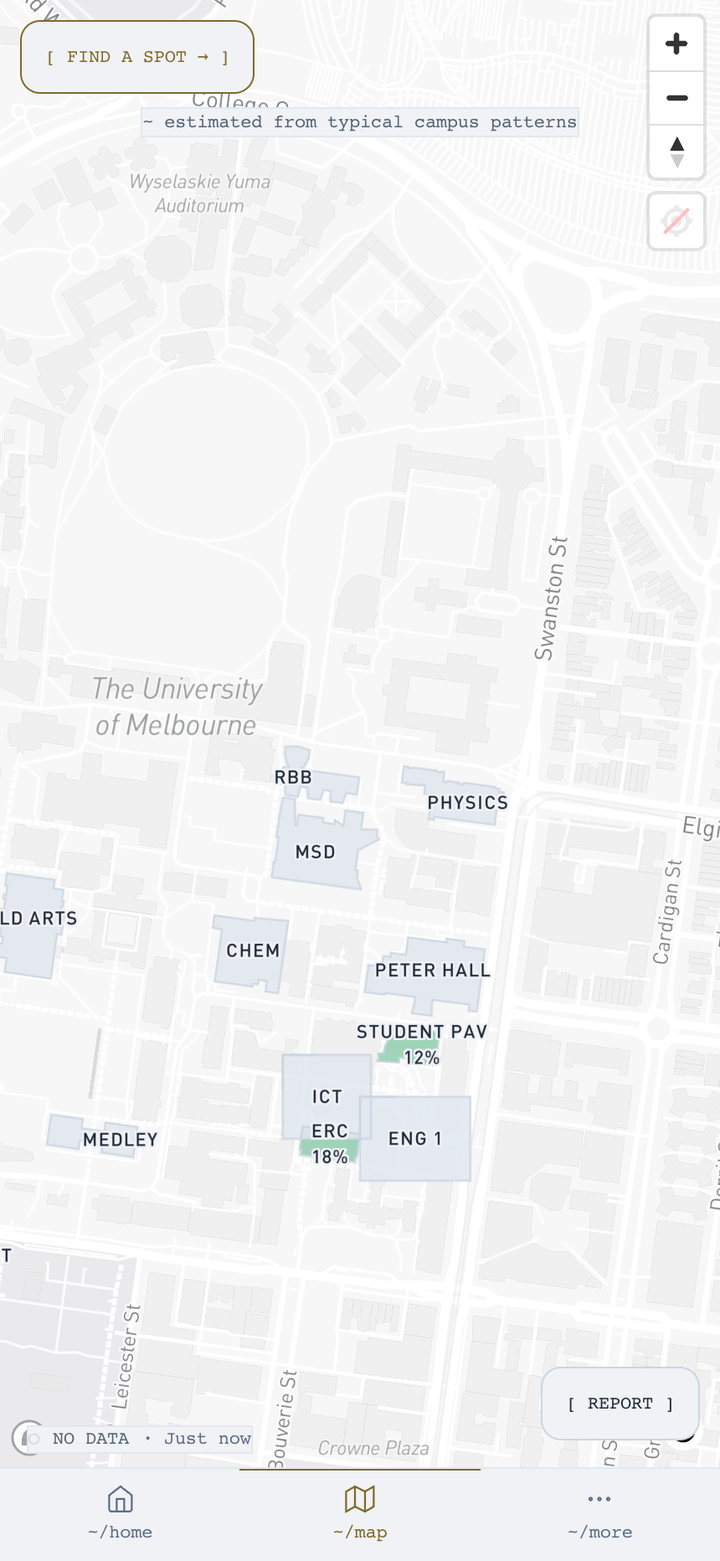
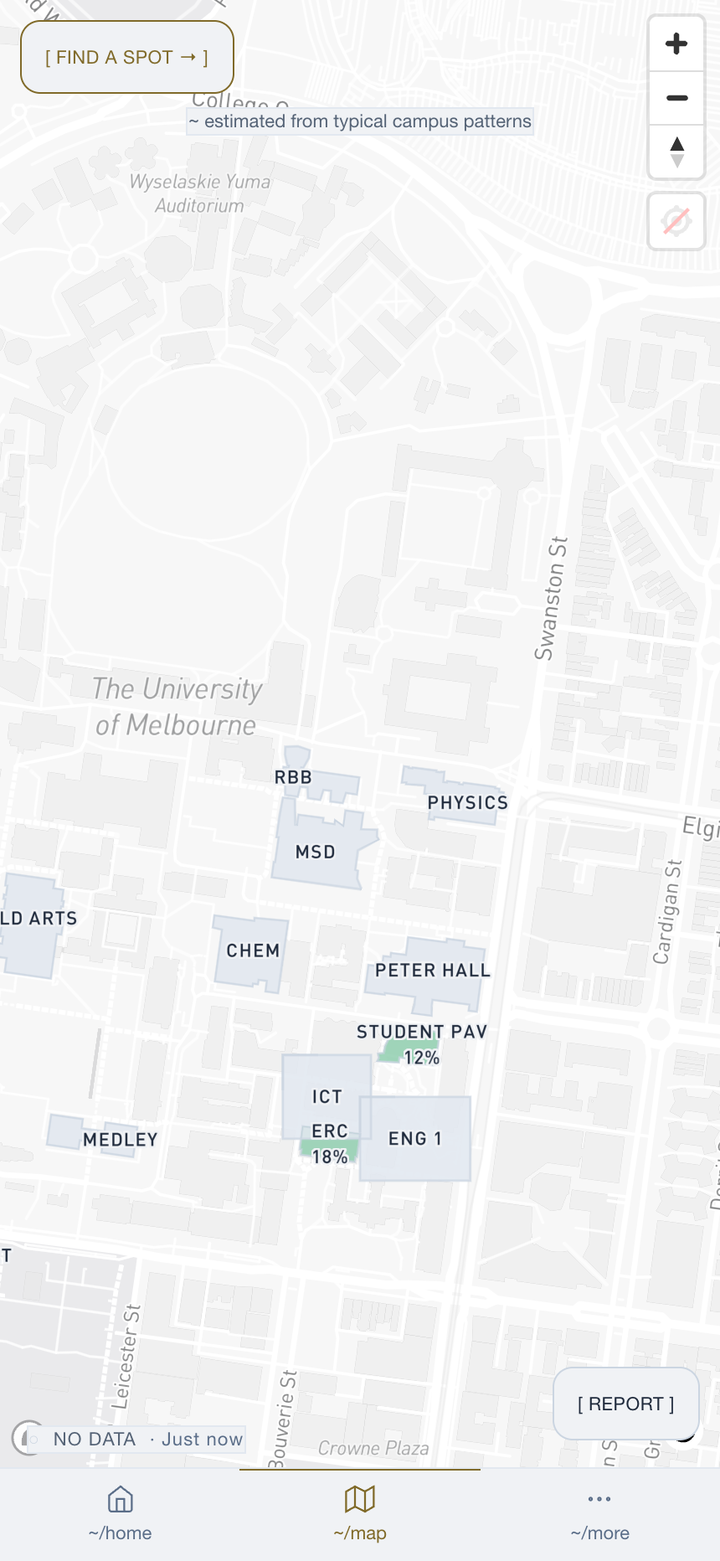
docs(D): re-capture the media at the settled design, correct the moved figures
The SIGNAL revert completed in 2f80bb7 — UoM palette, monospace dropped
across 113 elements, home-page rhythm reworked. All five images retaken
against that build; the previous set showed a design that no longer ships.

Currency proved by matching the built stylesheet hash (index-AJq4aJ5Q.css)
against the one the deployed site serves, rather than by eye.

Re-measured rather than carried forward:
- landing route 171.5 -> 172.8 KB gzip as index.css grew and five home
  components landed; README and PROJECT.json now say 173
- tests 380/32 and migrations 22 unmoved, verified not assumed

Also documents why the revert did not restore the coloured occupancy
percentage on the home tiles: it measures ~2.2:1 on the card, under the
3:1 floor for large text, so the colour stays on the stripe and the bar.

diff --git a/README.md b/README.md
@@ -12,7 +12,7 @@ UniSpace shows how full every building on a university campus is, so students st
 
 | | |
 |---|---|
-| **Landing route** | **171 KB gzip**, down from 637 KB — Mapbox's 439 KB stays off it entirely |
+| **Landing route** | **173 KB gzip**, down from 637 KB — Mapbox's 439 KB stays off it entirely |
 | **Tests** | **380** across 32 files, including four that assert properties most projects only write down |
 | **Campus data** | **18** buildings · **47** zones · **890** rooms · **1,156** modelled occupancy rows |
 | **Coordinates sent to a server** | **None.** Zone matching runs on the device; a test fails the build if that changes |
@@ -193,14 +193,18 @@ could not be identified with confidence are still quadrilaterals and are named a
 matched to a guess.
 
 Measurement changed decisions repeatedly, and not always in the expected direction. Splitting
-Mapbox out took the landing route from 637 KB to 171 KB gzip; the next optimisation, naming a
+Mapbox out took the landing route from 637 KB to 173 KB gzip; the next optimisation, naming a
 `charts` chunk for Recharts, made things **worse** — it was already correctly split behind the
 lazy building card, and naming it caused the bundler to hoist it into a static import, adding
 108 KB to the route in the name of shrinking it. Computing contrast ratios rather than eyeballing
 them caught a regression introduced two sprints earlier: a text token measuring 2.56:1 was
 carrying 49 pieces of real content. The same test later blocked a design revert — restoring the
 university palette's literal gold (2.02:1) and green (2.42:1) failed 13 contrast assertions, so
-the shipped values are hue- and saturation-preserved and darkened until they pass.
+the shipped values are hue- and saturation-preserved and darkened until they pass. One thing that
+revert deliberately did *not* restore is the coloured occupancy percentage on each home tile: the
+original green measures about 2.2:1 on the card, under the 3:1 floor for large text. The colour
+lives on the stripe and the bar instead. Putting it back would have been a regression sold as a
+revert.
 
 The most interesting finding was not a bug but a schema limitation. Researching accessibility data
 against the university's own sources showed that every flag in the database had been invented —
@@ -346,10 +350,11 @@ what remains genuinely outstanding is real-world data the repository cannot prod
 parking for any building, step-free entry for 17, hours for 13, and CC-licensed building
 photographs. Each is listed in [`MASTERPLAN.md`](MASTERPLAN.md) rather than quietly rounded up.
 
-One note on history: Sprint R3 applied a dark, single-accent design system called SIGNAL. Its
-component decomposition and accessibility work stand, but **the design layer was reverted on
-2026-08-15** in favour of the university palette on a light ground. The reasoning is in the
-masterplan's Architecture Decisions Log.
+One note on history: Sprint R3 applied a dark, single-accent design system called SIGNAL, with a
+monospace "instrument voice" throughout. Its component decomposition and accessibility work stand
+and are load-bearing, but **the visual layer was reverted on 2026-08-15** — university navy and
+gold on a light ground, and the monospace dropped across 113 elements. The reasoning is in the
+masterplan's Architecture Decisions Log. The screenshots above are the current build.
 
 | | |
 |---|---|

diff --git a/MASTERPLAN.md b/MASTERPLAN.md
@@ -2187,8 +2187,17 @@ CLAUDE.md § Honesty: every number in the README maps to a committed artifact or
       `bugs`, `license`, `author`.
 - [x] D7 — **Numbers re-counted from files, never restated** ✅ Every figure verified at the moment
       of writing: 380 tests / 32 files · 22 migrations · 8 seeds · 7 Edge Functions · 18 buildings ·
-      47 zones · 890 rooms across 17 buildings · 1,156 curve rows · 171 KB gzip landing route ·
+      47 zones · 890 rooms across 17 buildings · 1,156 curve rows · 173 KB gzip landing route ·
       439 KB Mapbox chunk.
+  - [x] D7.recount — **Re-verified after the visual revert landed** (`2f80bb7`). The landing route
+        moved 171.5 → **172.8 KB** gzip as `index.css` grew and five home components were added;
+        README and `PROJECT.json` corrected to 173. Tests (380/32) and migrations (22) unmoved.
+- [x] D9 — **Images re-captured at the settled design** ✅ All five retaken against the `2f80bb7`
+      build after the SIGNAL revert completed — UoM palette, monospace dropped across 113 elements,
+      the reworked home-page rhythm. Currency proved by matching the built stylesheet hash
+      (`index-AJq4aJ5Q.css`) against the one the deployed site serves, rather than by eye. The
+      first two capture rounds were discarded: round one predated the revert entirely, round two
+      predated the home-page rework.
   - [x] D7.extra — The counts moved four times mid-pass (277 → 297 → 325 → 380 tests) because a
         parallel session was still landing work. Recounted rather than trusting any handoff figure,
         including the parallel session's own — its final message reported 325/30 and 21 migrations,
